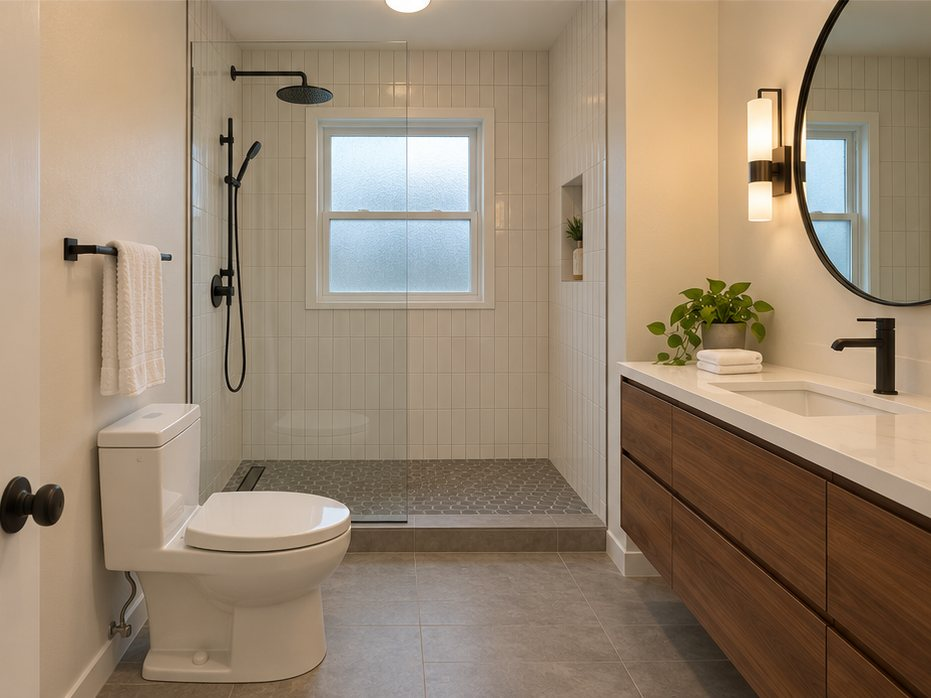
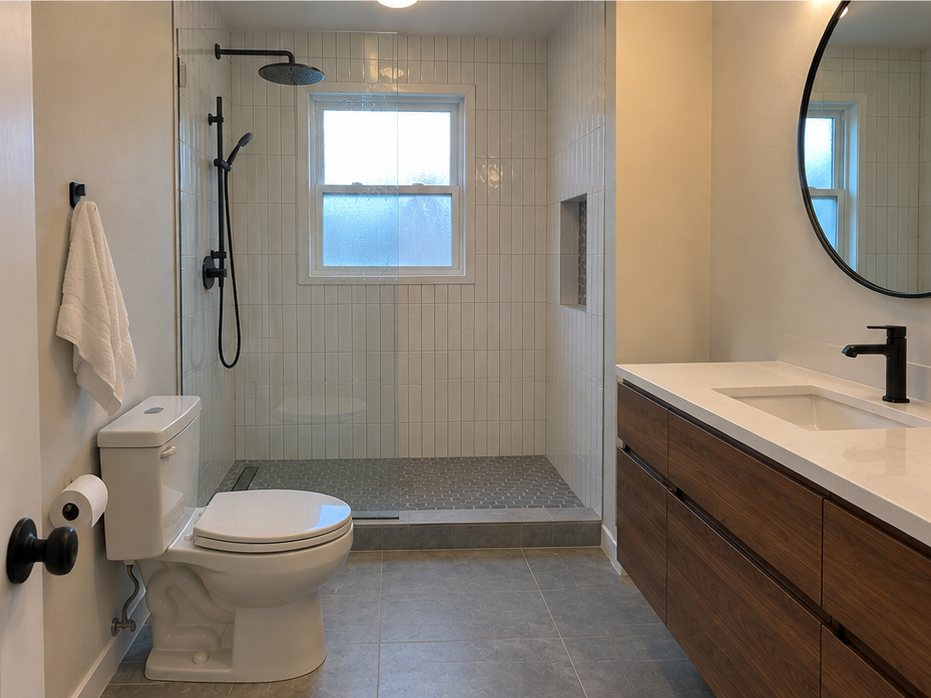
V3 before/after slider: more realistic generated pair (phone photo look, lived-in before, unstyled after, no plants) per owner 29.10 07:23
Claude-Session: https://claude.ai/code/session_012M4x2gg9dMZd2Jn9r9U6GG

diff --git a/public/bathroom-remodel-cost-v3.html b/public/bathroom-remodel-cost-v3.html
@@ -103,8 +103,8 @@
 <section class="v2work v3work"><div class="wrap">
   <div class="head"><p class="kicker">Before &amp; after</p><h2>From Dated <span class="grad-text">to Done.</span></h2></div>
   <figure class="v3cmp" style="--pos:40%">
-    <img class="v3cmp-a" src="/img/p/ill-after.jpg" alt="After: the same bathroom with a walk-in glass shower, vertical white tile, walnut floating vanity and round mirror" width="931" height="698" loading="lazy">
-    <div class="v3cmp-b"><img src="/img/p/ill-before.jpg" alt="Before: a dated bathroom with an almond tub-shower combo, oak vanity and brass fixtures" width="931" height="698" loading="lazy"></div>
+    <img class="v3cmp-a" src="/img/p/ill-after.jpg?v=2" alt="After: the same bathroom with a walk-in glass shower, vertical white tile, walnut floating vanity and a round black mirror" width="931" height="698" loading="lazy">
+    <div class="v3cmp-b"><img src="/img/p/ill-before.jpg?v=2" alt="Before: a dated bathroom with an almond tub-shower combo, oak vanity and brass fixtures" width="931" height="698" loading="lazy"></div>
     <span class="v3tag v3tag-b" aria-hidden="true">Before</span><span class="v3tag v3tag-a" aria-hidden="true">After</span>
     <span class="v3ill">Illustration</span>
     <span class="v3knob" aria-hidden="true"></span>

diff --git a/tools/build_lp_v3.py b/tools/build_lp_v3.py
@@ -459,8 +459,8 @@ def v3_page():
     work = f"""<section class="v2work v3work"><div class="wrap">
   <div class="head"><p class="kicker">Before &amp; after</p><h2>From Dated <span class="grad-text">to Done.</span></h2></div>
   <figure class="v3cmp" style="--pos:40%">
-    <img class="v3cmp-a" src="/img/p/ill-after.jpg" alt="After: the same bathroom with a walk-in glass shower, vertical white tile, walnut floating vanity and round mirror" width="931" height="698" loading="lazy">
-    <div class="v3cmp-b"><img src="/img/p/ill-before.jpg" alt="Before: a dated bathroom with an almond tub-shower combo, oak vanity and brass fixtures" width="931" height="698" loading="lazy"></div>
+    <img class="v3cmp-a" src="/img/p/ill-after.jpg?v=2" alt="After: the same bathroom with a walk-in glass shower, vertical white tile, walnut floating vanity and a round black mirror" width="931" height="698" loading="lazy">
+    <div class="v3cmp-b"><img src="/img/p/ill-before.jpg?v=2" alt="Before: a dated bathroom with an almond tub-shower combo, oak vanity and brass fixtures" width="931" height="698" loading="lazy"></div>
     <span class="v3tag v3tag-b" aria-hidden="true">Before</span><span class="v3tag v3tag-a" aria-hidden="true">After</span>
     <span class="v3ill">Illustration</span>
     <span class="v3knob" aria-hidden="true"></span>
